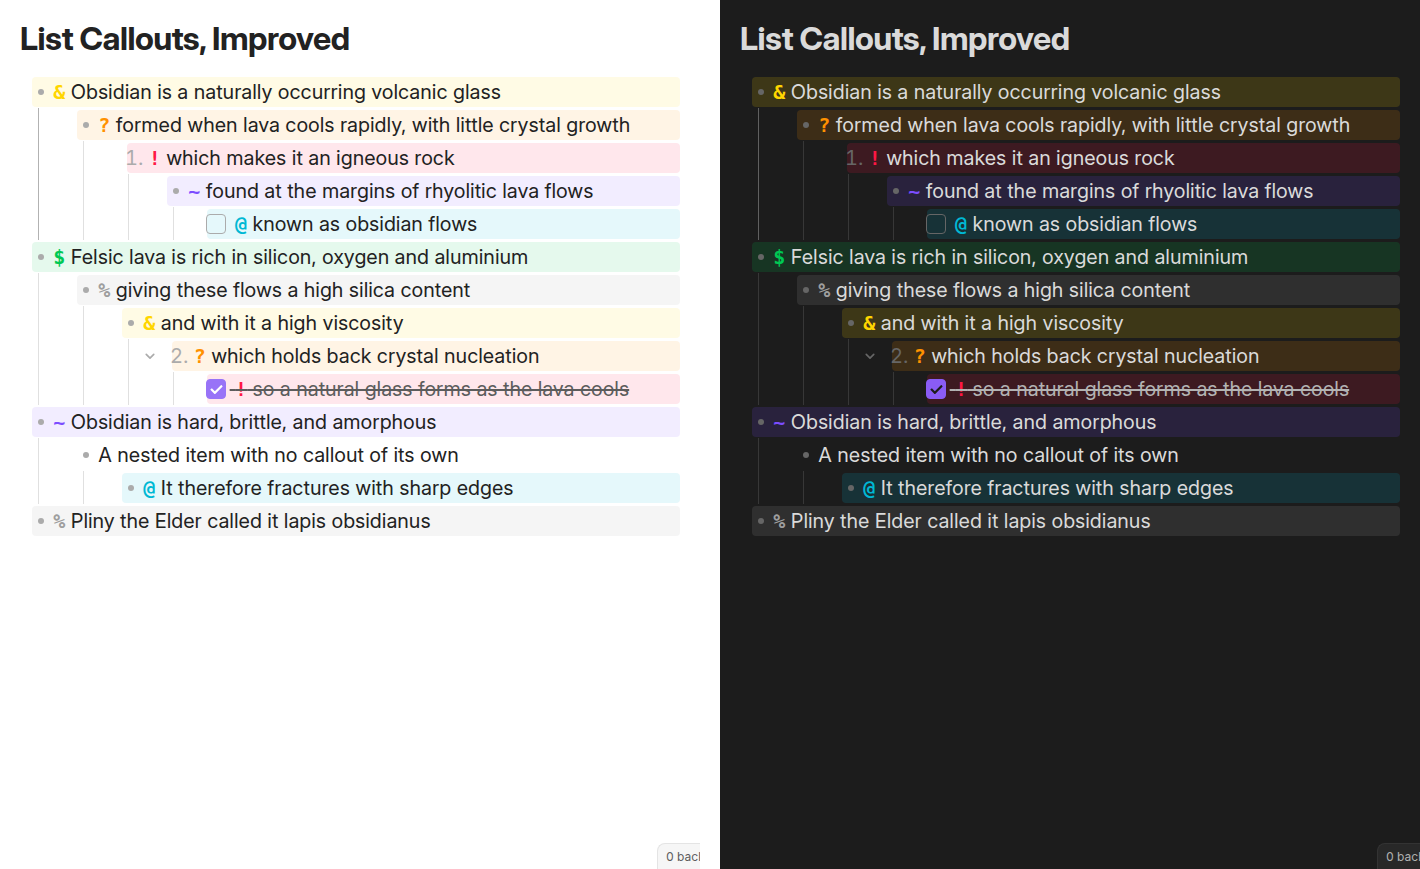
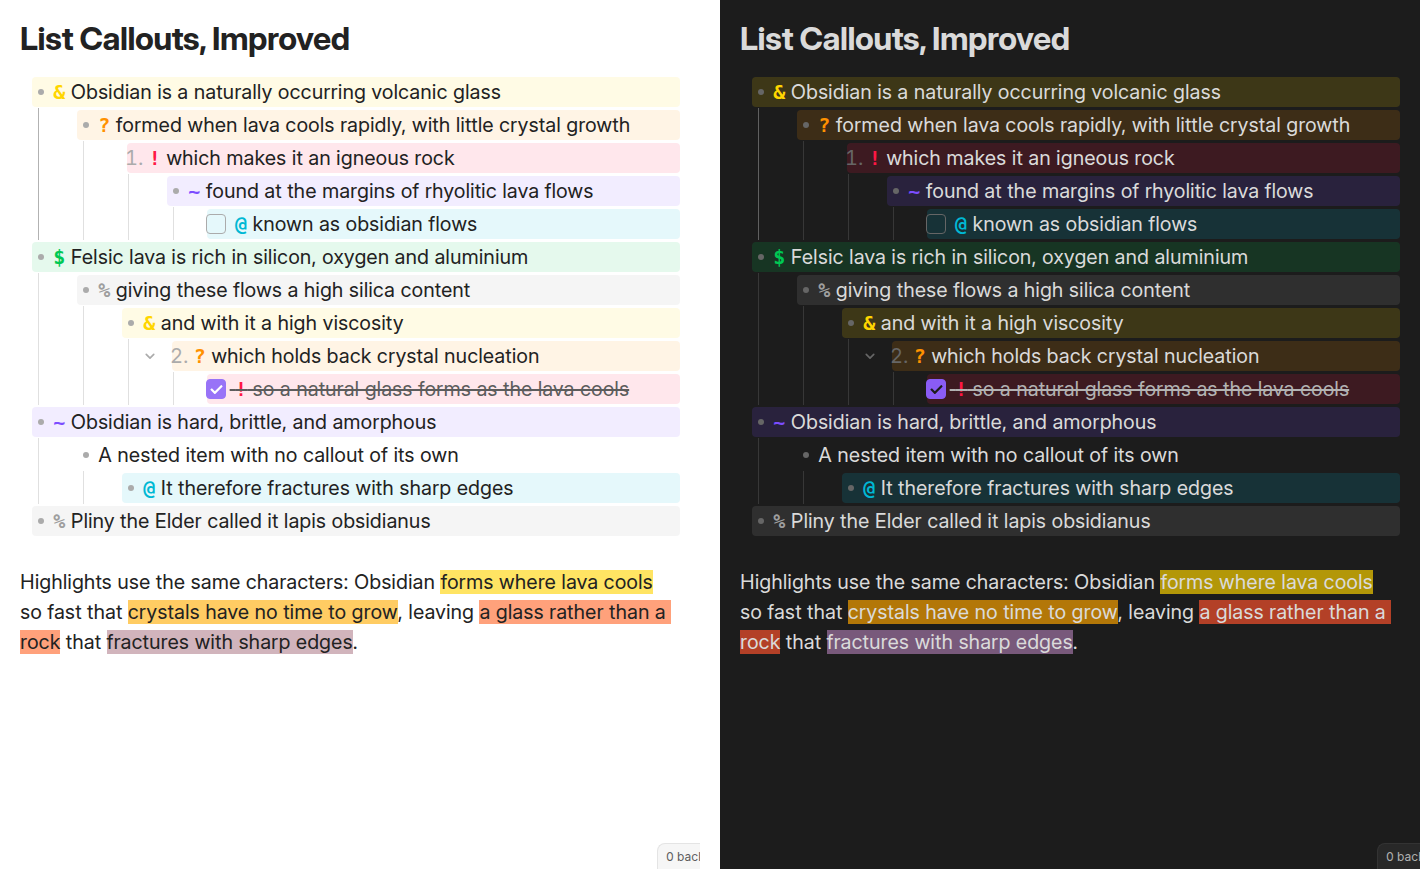
Document highlight callouts and add them to the README screenshots

Changed region(s): [[0.0, 0.6525, 0.4958, 0.7768], [0.4958, 0.6525, 0.9915, 0.7768]]

diff --git a/test/capture/readme.capture.ts b/test/capture/readme.capture.ts
@@ -14,7 +14,12 @@ import { before, describe, it } from 'mocha';
 import * as path from 'path';
 
 import type { Callout } from '../../src/settings';
-import { openNote, openPluginSettings, setSettings } from '../helpers';
+import {
+  openNote,
+  openPluginSettings,
+  setHighlights,
+  setSettings,
+} from '../helpers';
 
 const OUT_DIR = path.resolve('screenshots');
 
@@ -212,10 +217,11 @@ const EDITOR_SELECTOR = '.markdown-source-view .cm-sizer';
 async function captureEditor(
   name: string,
   hideTitle = false,
-  cropToContent = false
+  cropToContent = false,
+  readySelector = '.lc-list-callout'
 ): Promise<void> {
   await fs.mkdir(OUT_DIR, { recursive: true });
-  await browser.$('.lc-list-callout').waitForExist({ timeout: 10000 });
+  await browser.$(readySelector).waitForExist({ timeout: 10000 });
 
   const contentBottom = await prepareEditor(hideTitle);
 
@@ -457,14 +463,6 @@ async function captureIconPicker(name: string): Promise<void> {
     );
     if (!button) return false;
 
-    // The popout settings window is short enough that the menu, anchored to
-    // the button, can run past the top or bottom edge if the button sits too
-    // close to either. Centering it first gives the menu room to open fully
-    // on screen in whichever direction it picks -- has to happen before the
-    // click, since the menu computes its position from the button's rect at
-    // open time.
-    button.scrollIntoView({ block: 'center' });
-
     button.click();
     return true;
   });
@@ -477,6 +475,55 @@ async function captureIconPicker(name: string): Promise<void> {
   await browser
     .$('.lc-menu .lc-menu-icons .clickable-icon')
     .waitForExist({ timeout: 10000 });
+
+  // `.vertical-tab-content` does not respond to scrollIntoView() here, so
+  // the row is scrolled into view by setting scrollTop directly. Scroll
+  // from the row's own top rather than the button's: the row also carries
+  // the preview line and its label above the button, and the menu -- row
+  // height plus menu height -- still comfortably fits under it. The margin
+  // is wider than the crop's own padding to keep the row clear of the
+  // popout window's title bar, which sits just above the viewport's origin.
+  await browser.execute(() => {
+    const row = document.querySelector<HTMLElement>('.lc-setting');
+    const scrollParent = row?.closest<HTMLElement>('.vertical-tab-content');
+    if (!row || !scrollParent) return;
+
+    const PAD = 40;
+    scrollParent.scrollTop = Math.max(
+      scrollParent.scrollTop + row.getBoundingClientRect().top - PAD,
+      0
+    );
+  });
+
+  // The menu tracks the button's position only through a `scroll` listener
+  // the plugin attaches after a short delay, which can still be pending
+  // here -- and reading the button's rect for this in the same execute()
+  // call as the scrollTop write above would still see its pre-scroll
+  // position. So this is a separate round trip, repositioning the menu
+  // directly from the button's now-settled rect instead of waiting on
+  // that listener.
+  await browser.execute(() => {
+    const button = Array.from(document.querySelectorAll('button')).find(
+      (b) => (b.textContent ?? '').trim() === 'Set icon'
+    );
+    const menu = document.querySelector<HTMLElement>('.lc-menu');
+    if (!button || !menu) return;
+
+    const parent = (menu.offsetParent as HTMLElement) ?? document.body;
+    const parentRect = parent.getBoundingClientRect();
+    const buttonRect = button.getBoundingClientRect();
+
+    menu.style.setProperty(
+      'top',
+      `${buttonRect.bottom - parentRect.top + 2}px`,
+      'important'
+    );
+    menu.style.setProperty(
+      'left',
+      `${buttonRect.left - parentRect.left}px`,
+      'important'
+    );
+  });
 
   const crop = await iconPickerCropRect();
 
@@ -499,6 +546,10 @@ describe('README screenshots', function () {
     });
 
     await openNote('List Callouts, Improved.md');
+
+    // Pinned rather than inherited, so the images never depend on whatever
+    // the capturing vault last saved.
+    await setHighlights({ enabled: true, requireSpace: true });
 
     // The vault asks for Inter so the images do not depend on whatever the
     // capturing machine happens to default to. Fail loudly rather than
@@ -531,6 +582,14 @@ describe('README screenshots', function () {
     await openNote('Icons.md');
     await setSettings(callouts(true));
     await captureEditor('callout-icons.png', true, true);
+  });
+
+  it('captures the highlight rendering', async function () {
+    // One prose paragraph, cropped to its height, with icons on so the
+    // picture shows the marker giving way to the callout's icon.
+    await openNote('Highlights.md');
+    await setSettings(callouts(true));
+    await captureEditor('highlights.png', true, true, '.lc-highlight-callout');
   });
 
   it('captures the settings tab with the icon picker open', async function () {

diff --git a/README.md b/README.md
@@ -21,7 +21,22 @@ Characters, icons and colours are all configurable, and you can add your own cal
 
 ![The plugin settings tab with the icon picker open, in light and dark mode](screenshots/settings-icon-picker.png)
 
-The padding of the callouts can be adjusted using the Style Settings plugin.
+The padding of the callouts and the intensity of their backgrounds can be adjusted using the Style Settings plugin.
+
+## Highlights
+
+The same characters work inside Obsidian's `==highlight==` syntax. Start a highlight with a callout character and a space, and it takes that callout's colour — and its icon, if one is set:
+
+![A paragraph with several inline highlights, each in a different callout colour and led by that callout's icon, shown in light and dark mode](screenshots/highlights.png)
+
+Highlights and list items share one set of callouts, so `==& text==` is yellow because the `&` callout is yellow. The character and the space are hidden when the note is rendered and reappear in Live Preview while the cursor is inside the highlight, the same way the `==` markers do.
+
+Two settings, under **Highlights** in the settings tab:
+
+- **Highlight callouts** turns the feature on and off.
+- **Require a space after the character** is on by default, so `==& text==` is a callout and `==!important==` is left alone. Turn it off and `==&text==` works too.
+
+The intensity of the highlight colour can be adjusted using the Style Settings plugin, alongside the callout padding.
 
 ## Managing callouts
 

diff --git a/test/vaults/readme/List Callouts, Improved.md b/test/vaults/readme/List Callouts, Improved.md
@@ -12,3 +12,5 @@
 	- A nested item with no callout of its own
 		- @ It therefore fractures with sharp edges
 - % Pliny the Elder called it lapis obsidianus
+
+Highlights use the same characters: Obsidian ==& forms where lava cools== so fast that ==? crystals have no time to grow==, leaving ==! a glass rather than a rock== that ==~ fractures with sharp edges==.

diff --git a/test/vaults/readme/Highlights.md b/test/vaults/readme/Highlights.md
@@ -1,0 +1,1 @@
+Obsidian is ==& a naturally occurring volcanic glass==, ==? produced from felsic lava==. These flows have ==! a high content of silica==, and ==~ the high viscosity== inhibits diffusion of atoms through the lava, ==@ so a natural glass forms== as it cools.
